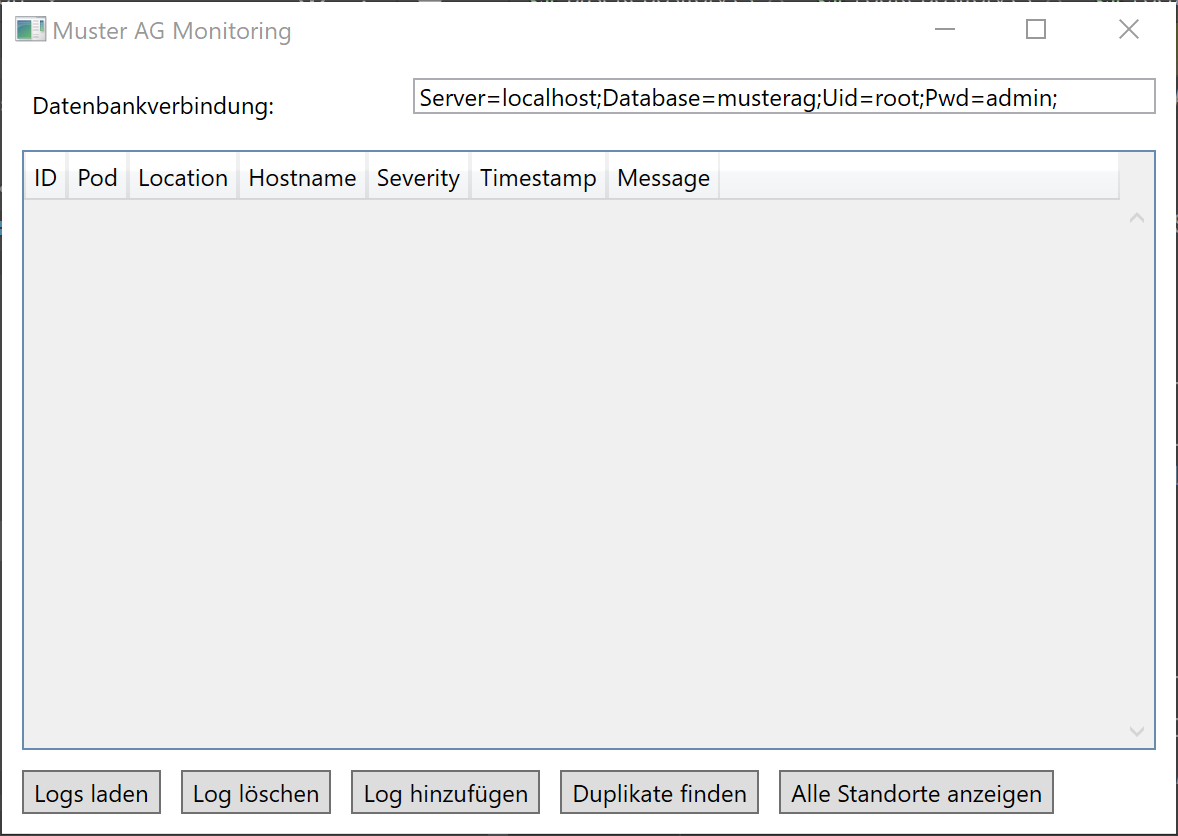
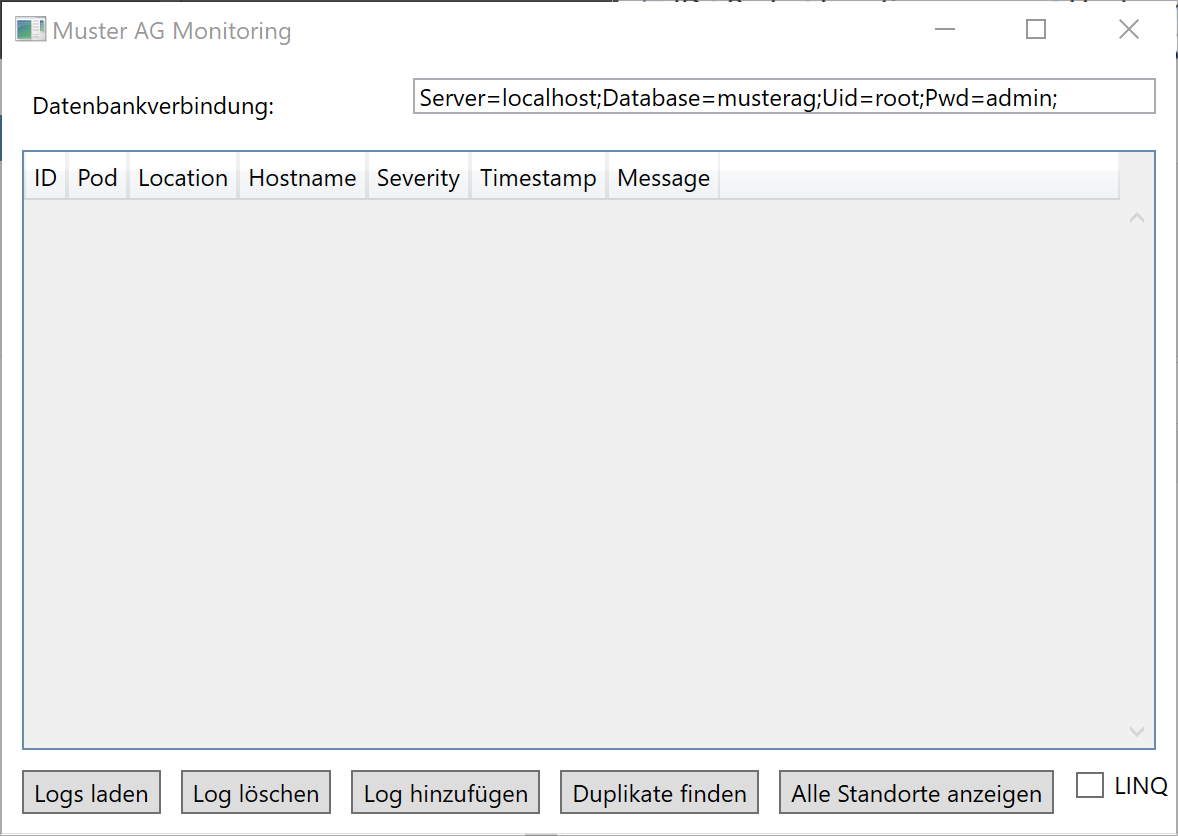
updated doc and images

Changed region(s): [[0.0, 0.9952, 1.0, 1.0], [0.9474, 0.9019, 1.0, 0.9641], [0.9779, 0.0, 1.0, 0.0311]]

diff --git a/Documentation/Doc.md b/Documentation/Doc.md
@@ -46,6 +46,10 @@ Wenn man diesen Button drückt, werden alle Logeinträge, welches dieselbe `Mess
 Hier werden alle eingetragenen Standorte in einer `MessageBox` angezeigt. Die Anzahl wird ebenfalls visualisiert.
 ![MainWindow_ShowAllLocation][MainWindow_ShowAllLocation]
 
+**LINQ Checkbox**  
+Durch das Aktivieren der LINQ-Checkbox werden alle Datenbankabfragen via LINQ getätigt.
+Beide Implementierungen liefern jedoch dieselben Resultate zurück.
+
 [MainWindow]: ./Images/MainWindow.png "MainWindow"
 [MainWindow_LoadData]: ./Images/MainWindow_LoadData.png "MainWindow_LoadData"
 [MainWindow_AddLog]: ./Images/MainWindow_AddLog.png "MainWindow_AddLog"
